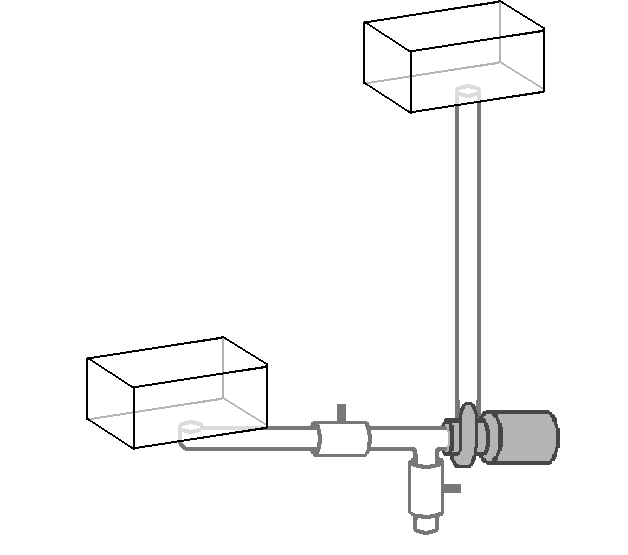
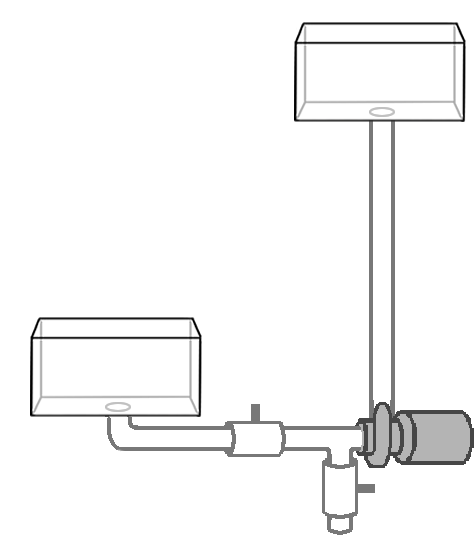
Adjusted image of tanks; switched LiquidFun testbed script

diff --git a/Priority_2_Thermodynamics/Mixing/liquidfun_test/testbed/tests/testPumpReverse.js b/Priority_2_Thermodynamics/Mixing/liquidfun_test/testbed/tests/testPumpReverse.js
@@ -1,109 +1,88 @@
-function TestSurfaceTension() {
+function TestLiquidTimer() {
   camera.position.y = 2;
-  camera.position.z = 4;
-
+  camera.position.z = 3;
   var bd = new b2BodyDef;
   var ground = world.CreateBody(bd);
 
-  // Floor
-  var shape = new b2PolygonShape();
-  shape.vertices[0] = new b2Vec2(-4, -1);
-  shape.vertices[1] = new b2Vec2(4, -1);
-  shape.vertices[2] = new b2Vec2(4, 0);
-  shape.vertices[3] = new b2Vec2(-4, 0);
-  ground.CreateFixtureFromShape(shape, 0.0);
-
-  // Left Wall
-  var shape = new b2PolygonShape();
-  shape.vertices[0] = new b2Vec2(-4, -0.1);
-  shape.vertices[1] = new b2Vec2(-2, -0.1);
-  shape.vertices[2] = new b2Vec2(-2, 4);
-  shape.vertices[3] = new b2Vec2(-4, 4);
-  ground.CreateFixtureFromShape(shape, 0.0);
-
-  // Right Wall
-  var shape = new b2PolygonShape();
-  shape.vertices[0] = new b2Vec2(2, -0.1);
-  shape.vertices[1] = new b2Vec2(4, -0.1);
-  shape.vertices[2] = new b2Vec2(4, 4);
-  shape.vertices[3] = new b2Vec2(2, 4);
+  var shape = new b2ChainShape;
+  shape.vertices.push(new b2Vec2(-2, 0));
+  shape.vertices.push(new b2Vec2(2, 0));
+  shape.vertices.push(new b2Vec2(2, 4));
+  shape.vertices.push(new b2Vec2(-2, 4));
+  shape.CreateLoop();
   ground.CreateFixtureFromShape(shape, 0.0);
 
   var psd = new b2ParticleSystemDef();
-  psd.radius = 0.035;
-  psd.dampingStrength = 0.2;
-
+  psd.radius = 0.025;
   var particleSystem = world.CreateParticleSystem(psd);
 
-  // fluid A (already in beaker)
-  var box = new b2PolygonShape();
-  var pgd = new b2ParticleGroupDef();
-  box.vertices[0] = new b2Vec2(-1.9, 1.5);
-  box.vertices[1] = new b2Vec2(1.9, 1.5);
-  box.vertices[2] = new b2Vec2(1.9, 0.1);
-  box.vertices[3] = new b2Vec2(-1.9, 0.1);
-  pgd.flags = b2_tensileParticle | b2_colorMixingParticle;
-  pgd.shape = box;
-  pgd.color.Set(0, 0, 255, 255);
-  particleSystem.CreateParticleGroup(pgd);
-
-  // fluid B (dropping into beaker)
-  var box = new b2PolygonShape();
-  var pgd = new b2ParticleGroupDef();
-  box.vertices[0] = new b2Vec2(-1.9, 3.4);
-  box.vertices[1] = new b2Vec2(1.9, 3.4);
-  box.vertices[2] = new b2Vec2(1.9, 2);
-  box.vertices[3] = new b2Vec2(-1.9, 2);
-  pgd.flags = b2_tensileParticle | b2_colorMixingParticle;
-  pgd.shape = box;
-  pgd.color.Set(255, 0, 0, 255);
-  particleSystem.CreateParticleGroup(pgd);
-
-/*  // fluid B (dropping into beaker)
-  var circle = new b2CircleShape();
-  circle.position.Set(-1, 3);
-  circle.radius = 0.5;
-  var pgd = new b2ParticleGroupDef();
-  pgd.flags = b2_tensileParticle | b2_colorMixingParticle;
-  pgd.shape = circle;
-  pgd.color.Set(255, 0, 0, 255);
-  particleSystem.CreateParticleGroup(pgd);
-*/
-/*  // two group
-  circle = new b2CircleShape();
-  circle.position.Set(-1, 2);
-  circle.radius = 0.5;
-  pgd = new b2ParticleGroupDef();
-  pgd.flags = b2_tensileParticle | b2_colorMixingParticle;
-  pgd.shape = circle;
-  pgd.color.Set(0, 255, 0, 255);
-  particleSystem.CreateParticleGroup(pgd);
-*/
+  shape = new b2PolygonShape;
+  shape.SetAsBoxXYCenterAngle(2, 0.4, new b2Vec2(0, 3.6), 0);
+  var pd = new b2ParticleGroupDef;
+  pd.flags = b2_tensileParticle | b2_viscousParticle;
+  pd.shape = shape;
+  particleSystem.CreateParticleGroup(pd);
 
 
-  
-  /* // fourth group
-  var box = new b2PolygonShape();
-  var pgd = new b2ParticleGroupDef();
-  box.vertices[0] = new b2Vec2(0, -3);
-  box.vertices[1] = new b2Vec2(2, -3);
-  box.vertices[2] = new b2Vec2(2, 3.5);
-  box.vertices[3] = new b2Vec2(0, 3.5);
-  pgd.flags = b2_tensileParticle | b2_colorMixingParticle;
-  pgd.shape = box;
-  pgd.color.Set(0, 0, 255, 255);
-  particleSystem.CreateParticleGroup(pgd); */
-
-
-  /*// circle
-  bd = new b2BodyDef()
-  var circle = new b2CircleShape();
-  bd.type = b2_dynamicBody;
+  bd = new b2BodyDef;
   var body = world.CreateBody(bd);
-  circle.position.Set(0, 8);
-  circle.radius = 0.5;
-  body.CreateFixtureFromShape(circle, 0.5);*/
+  shape = new b2EdgeShape;
+  shape.Set(new b2Vec2(-2, 3.2), new b2Vec2(-1.2, 3.2));
+  body.CreateFixtureFromShape(shape, 0.1);
 
-  // testbed specific
-  renderer.updateColorParticles = true;
+  bd = new b2BodyDef;
+  body = world.CreateBody(bd);
+  shape = new b2EdgeShape;
+  shape.Set(new b2Vec2(-1.1, 3.2), new b2Vec2(2, 3.2));
+  body.CreateFixtureFromShape(shape, 0.1);
+
+  bd = new b2BodyDef;
+  body = world.CreateBody(bd);
+  shape = new b2EdgeShape;
+  shape.Set(new b2Vec2(-1.2, 3.2), new b2Vec2(-1.2, 2.8));
+  body.CreateFixtureFromShape(shape, 0.1);
+
+  bd = new b2BodyDef;
+  body = world.CreateBody(bd);
+  shape = new b2EdgeShape;
+  shape.Set(new b2Vec2(-1.1, 3.2), new b2Vec2(-1.1, 2.8));
+   body.CreateFixtureFromShape(shape, 0.1);
+
+  bd = new b2BodyDef;
+  body = world.CreateBody(bd);
+  shape = new b2EdgeShape;
+  shape.Set(new b2Vec2(-1.6, 2.4), new b2Vec2(0.8, 2));
+  body.CreateFixtureFromShape(shape, 0.1);
+
+  bd = new b2BodyDef;
+  body = world.CreateBody(bd);
+  shape = new b2EdgeShape;
+  shape.Set(new b2Vec2(1.6, 1.6), new b2Vec2(-0.8, 1.2));
+  body.CreateFixtureFromShape(shape, 0.1);
+
+
+  bd = new b2BodyDef;
+  body = world.CreateBody(bd);
+  shape = new b2EdgeShape;
+  shape.Set(new b2Vec2(-1.2, 0.8), new b2Vec2(-1.2, 0));
+  body.CreateFixtureFromShape(shape, 0.1);
+
+  bd = new b2BodyDef;
+  body = world.CreateBody(bd);
+  shape = new b2EdgeShape;
+  shape.Set(new b2Vec2(-0.4, 0.8), new b2Vec2(-0.4, 0));
+  body.CreateFixtureFromShape(shape, 0.1);
+
+
+  bd = new b2BodyDef;
+  body = world.CreateBody(bd);
+  shape = new b2EdgeShape;
+  shape.Set(new b2Vec2(0.4, 0.8), new b2Vec2(0.4, 0));
+  body.CreateFixtureFromShape(shape, 0.1);
+
+  bd = new b2BodyDef;
+  body = world.CreateBody(bd);
+  shape = new b2EdgeShape;
+  shape.Set(new b2Vec2(1.2, 0.8), new b2Vec2(1.2, 0));
+  body.CreateFixtureFromShape(shape, 0.1);
 }

diff --git a/Priority_2_Thermodynamics/Pump_Reversibility_edit/pumpstyle.css b/Priority_2_Thermodynamics/Pump_Reversibility_edit/pumpstyle.css
@@ -152,6 +152,8 @@ h1 {
 
 #structure {
 	position:absolute;
+	left: 70px;
+	top: 40px;
 }
 
 #measurement {
@@ -164,6 +166,7 @@ h1 {
 	top:338px;
 	left:103px;
 	z-index:-1;
+	visibility: hidden;
 }
 
 #volumeLabel {
@@ -178,36 +181,38 @@ h1 {
 	top:98px;
 	left:380px;
 	z-index:-1;
+	visibility: hidden;
 }
 
 #openValve {
 	position:absolute;
-	top:393px;
-	left:335px;
+	top:430px;
+	left:303px;
 }
 
 #closedValve {
 	position:absolute;
-	top:404px;
-	left:335px;
+	top:435px;
+	left:303px;
 }
 
 #openSideValve {
 	position:absolute;
-	top:466px;
-	left:467px;
+	top:508px;
+	left:437px;
 }
 
 #closedSideValve {
 	position:absolute;
-	top:466px;
-	left:472px;
+	top:508px;
+	left:442px;
 }
 
 #startWater {
 	position:absolute;
 	left:197px;
 	top:424px;
+	visibility: hidden;
 }
 
 #pumpWater {

diff --git a/Priority_2_Thermodynamics/Pump_Reversibility_edit/pumpscript.js b/Priority_2_Thermodynamics/Pump_Reversibility_edit/pumpscript.js
@@ -163,6 +163,8 @@ function resetPump() {
 	finishDrain();
 	
 	// return animation components to their initial state
+	$("#tank1Water").hide();
+	$("#tank2Water").hide();
 	$("#tank1Water").css("top", "338px");
 	$("#tank2Water").css("top", "97px");
 	$("#startWater").show();
@@ -248,6 +250,8 @@ function pumpWater() {
 	$("#drainWorkArrow").show();
 	
 	// animate the water level rising in the upper tank and lowering in the lower tank
+	$("#tank1Water").show();
+	$("#tank2Water").show();
 	$("#tank1Water").animate({top:"433px"}, pumpTime, "linear");
 	$("#tank2Water").animate({top:"4px"}, pumpTime, "linear", pause); // register the pause function to be called when this section of the animation finishes
 }

diff --git a/Priority_2_Thermodynamics/Mixing/liquidfun_test/testbed/testbed.js b/Priority_2_Thermodynamics/Mixing/liquidfun_test/testbed/testbed.js
@@ -65,7 +65,7 @@ function testSwitch(testName) {
 function Testbed(obj) {
   var that = this;
   window.addEventListener( 'resize', onWindowResize, false );
-  testSwitch("TestSurfaceTension");
+  testSwitch("TestLiquidTimer");
   render();
 }
 
